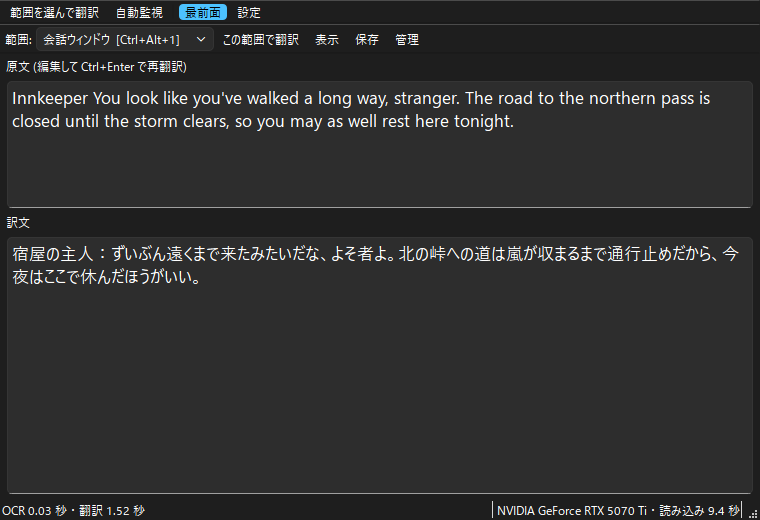
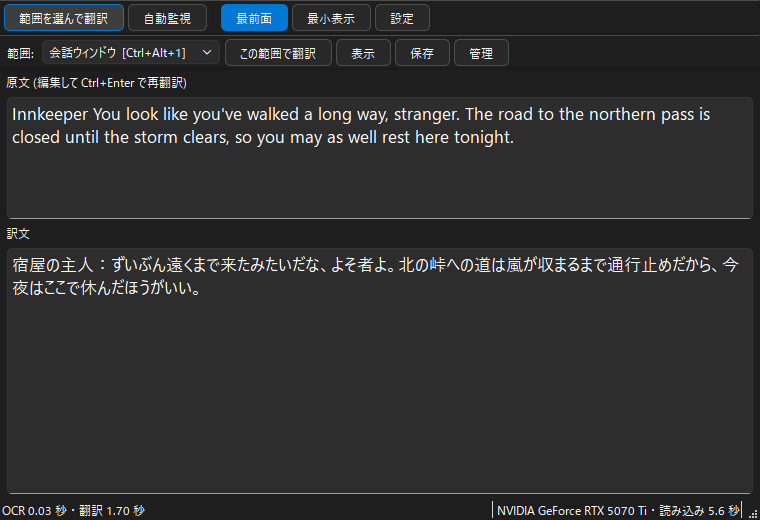
ツールバーのボタンに枠とホバー・押下・ON の表示を付ける

diff --git a/localtrans/window.py b/localtrans/window.py
@@ -8,7 +8,7 @@ from pathlib import Path
 from PySide6.QtCore import QByteArray, Qt, QTimer, Signal
 from PySide6.QtGui import QAction, QFont, QIcon, QKeySequence, QShortcut
 from PySide6.QtWidgets import (QApplication, QComboBox, QInputDialog, QLabel, QMainWindow, QMessageBox,
-                               QPlainTextEdit, QSplitter, QStatusBar, QToolBar, QVBoxLayout,
+                               QPlainTextEdit, QSplitter, QStatusBar, QToolBar, QToolButton, QVBoxLayout,
                                QWidget)
 
 from .capture import ScreenCapturer
@@ -32,6 +32,29 @@ user32.SetForegroundWindow.argtypes = [wintypes.HWND]
 HWND_TOPMOST, HWND_NOTOPMOST = wintypes.HWND(-1), wintypes.HWND(-2)
 SWP_NOSIZE, SWP_NOMOVE, SWP_NOACTIVATE, SWP_SHOWWINDOW = 0x1, 0x2, 0x10, 0x40
 SW_SHOWNOACTIVATE = 4
+
+# ライト・ダーク両方で見えるよう、色は半透明の灰色と選択色 (palette(highlight)) で作る
+TOOLBAR_STYLE = """
+QToolBar { spacing: 4px; padding: 2px 4px; }
+QToolButton {
+    border: 1px solid rgba(128, 128, 128, 0.45);
+    border-radius: 5px;
+    padding: 3px 10px;
+    background: rgba(128, 128, 128, 0.10);
+}
+QToolButton:hover {
+    background: rgba(128, 128, 128, 0.32);
+    border-color: palette(highlight);
+}
+QToolButton:pressed { background: rgba(128, 128, 128, 0.50); }
+QToolButton:checked {
+    background: palette(highlight);
+    color: palette(highlighted-text);
+    border-color: palette(highlight);
+}
+QToolButton:checked:hover { border-color: palette(highlighted-text); }
+QToolButton:disabled { color: rgba(128, 128, 128, 0.7); }
+"""
 
 
 class MainWindow(QMainWindow):
@@ -108,6 +131,11 @@ class MainWindow(QMainWindow):
         self.act_show_region.setToolTip("いまの範囲を画面上に枠で表示")
         for a in (self.act_repeat, self.act_show_region, self.act_save_preset, self.act_manage_presets):
             tb2.addAction(a)
+        # ツールバーのボタンは枠がなく、ホバーしても見た目が変わらないので、ボタンらしく見せる
+        for bar in (tb, tb2):
+            bar.setStyleSheet(TOOLBAR_STYLE)
+            for btn in bar.findChildren(QToolButton):
+                btn.setCursor(Qt.CursorShape.PointingHandCursor)
         self.flash = RegionFlash()
 
         central = QWidget()
